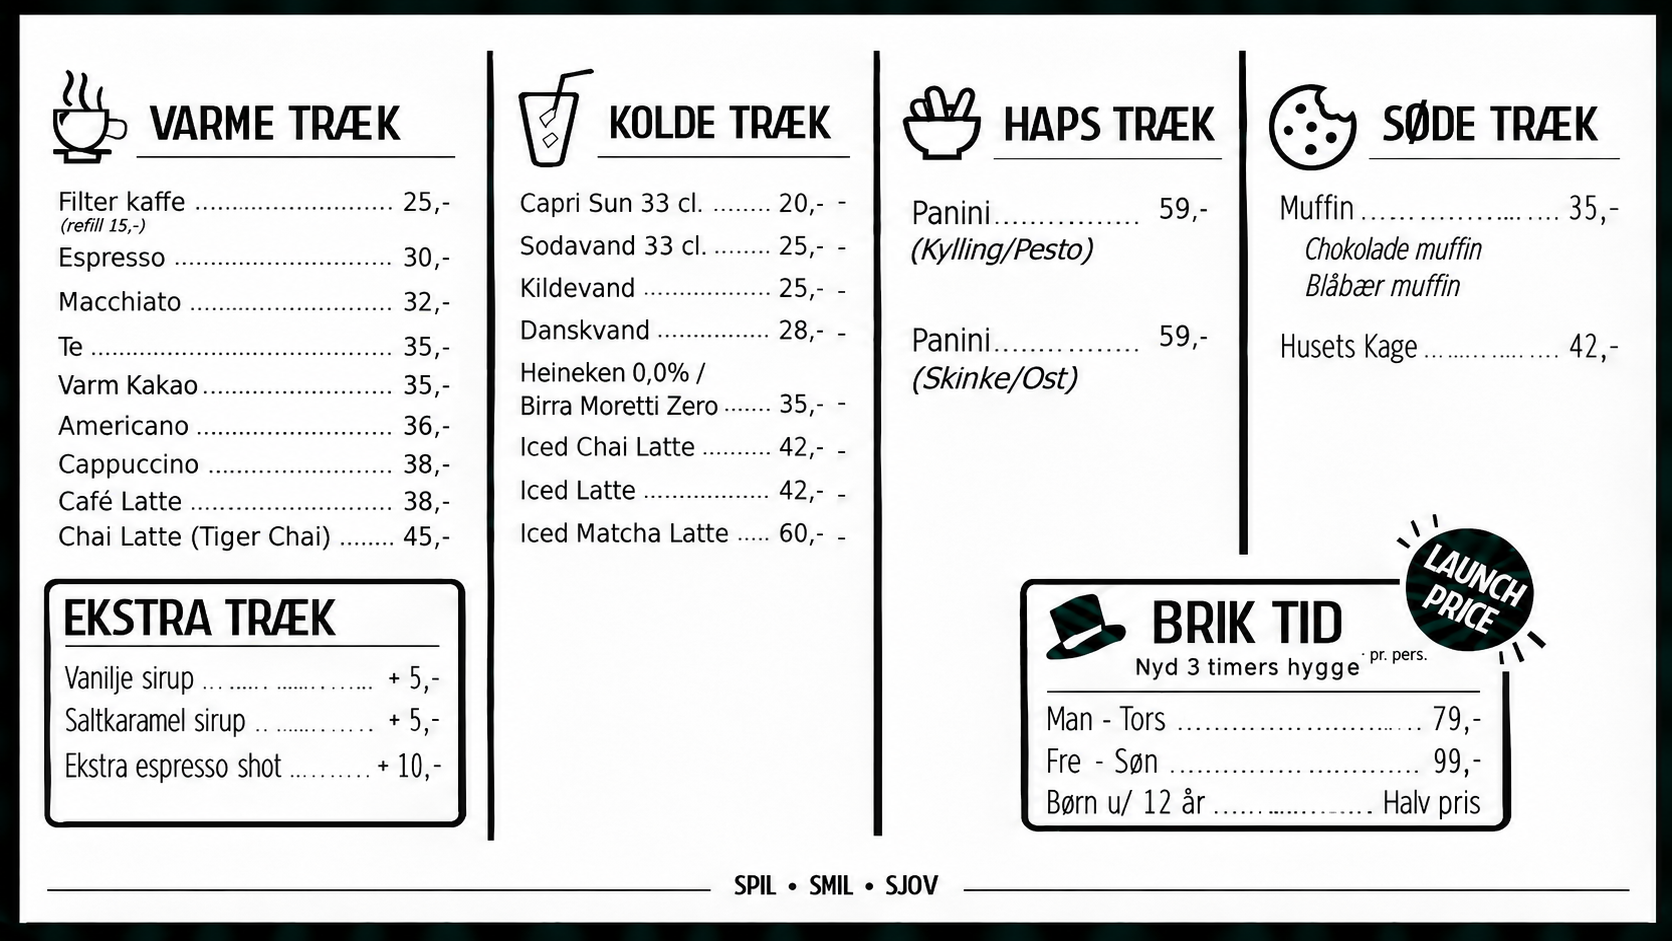
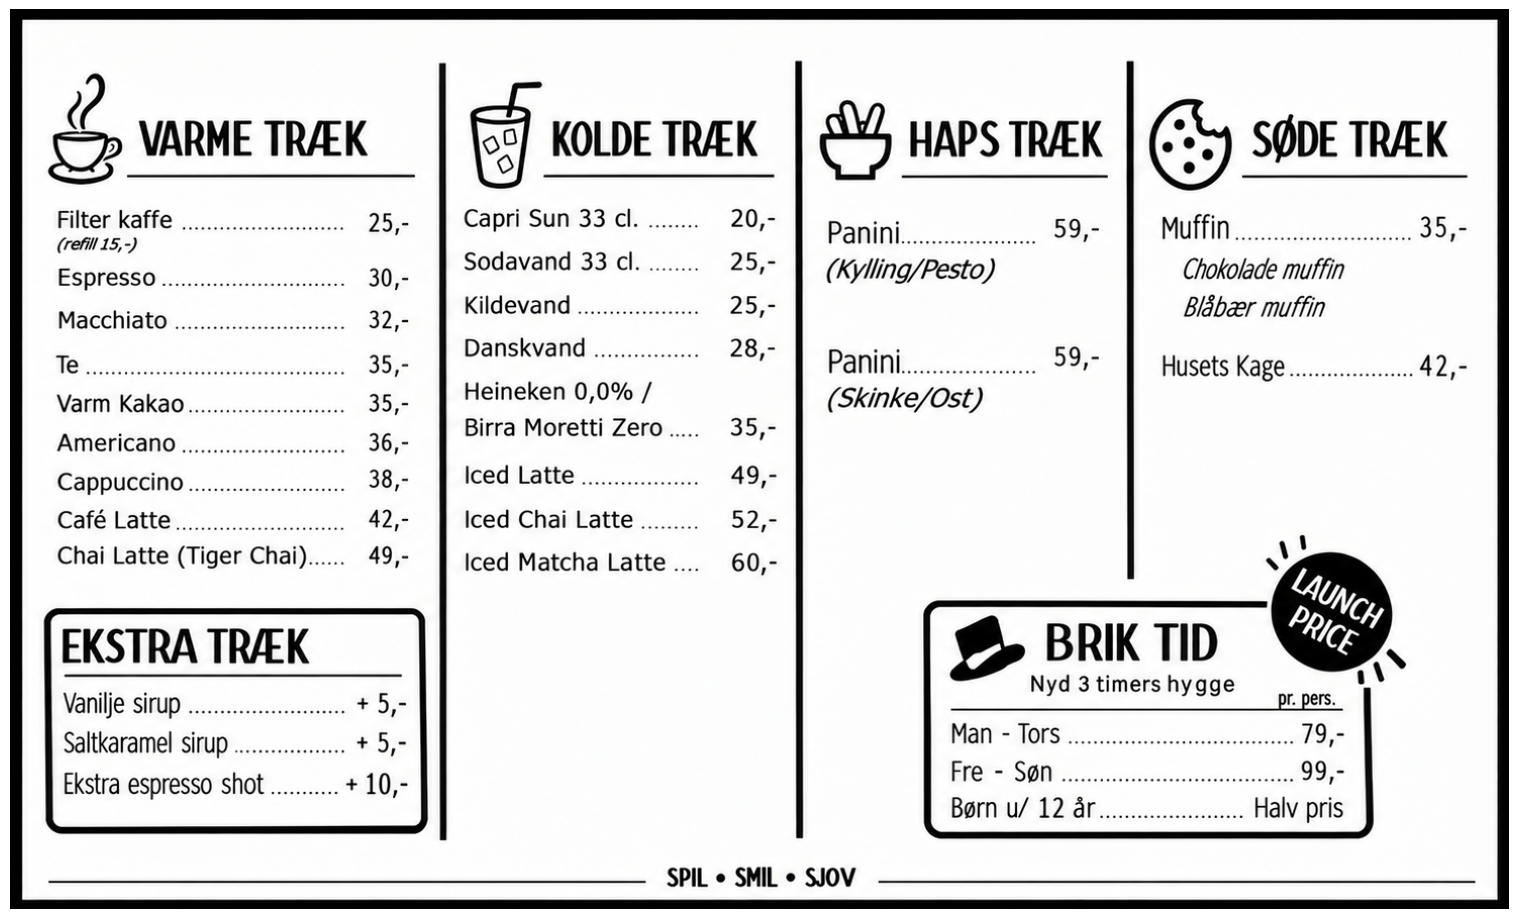
Opdater menukort

Changed region(s): [[0.0, 0.0, 1.0, 1.0], [0.5883, 0.5484, 0.9289, 0.914]]

diff --git a/app/page.tsx b/app/page.tsx
@@ -491,10 +491,10 @@ function MenuPage() {
           aria-label="Åbn House of Briks menukort i fuld størrelse"
         >
           <img
-            src="/HOB%20Menukort.png"
-            alt="House of Brik menukort med drikkevarer, mad, kager og priser"
-            className="h-auto w-full"
-          />
+  src="/HOB%20Menukort.png"
+  alt="House of Brik menukort med drikkevarer, mad, kager og priser"
+  className="mx-auto h-auto max-h-[calc(100svh-300px)] w-auto max-w-full object-contain"
+/>
         </a>
 
         <p className="mt-5 text-sm text-[#D6D1C7]">
